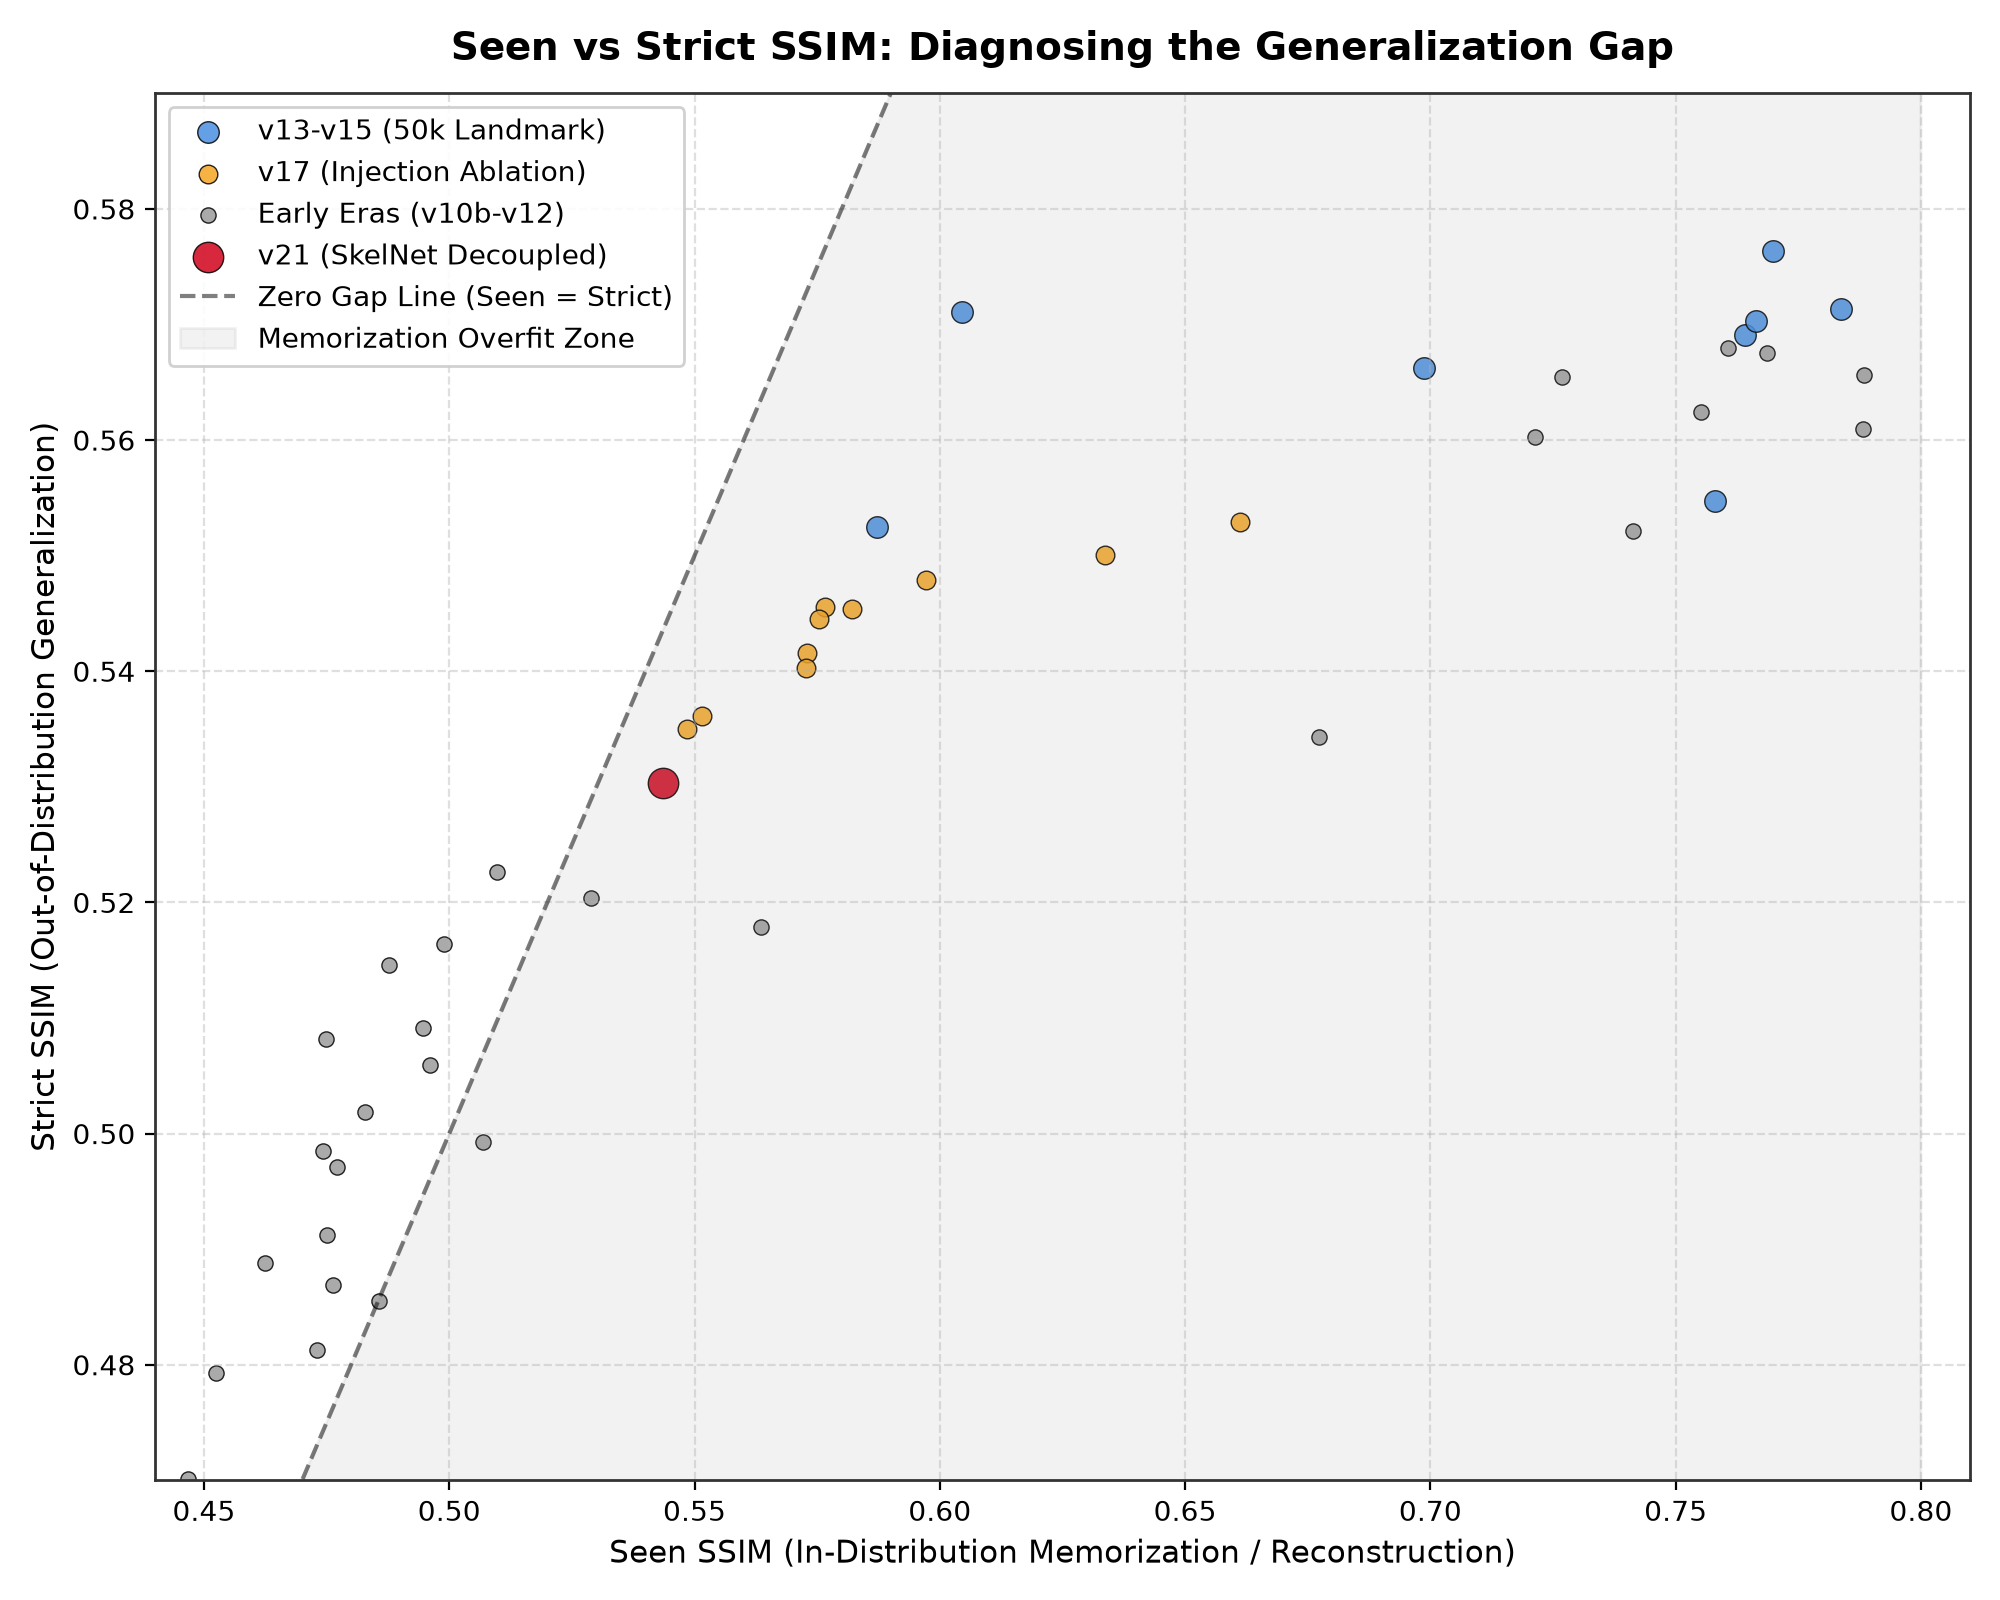
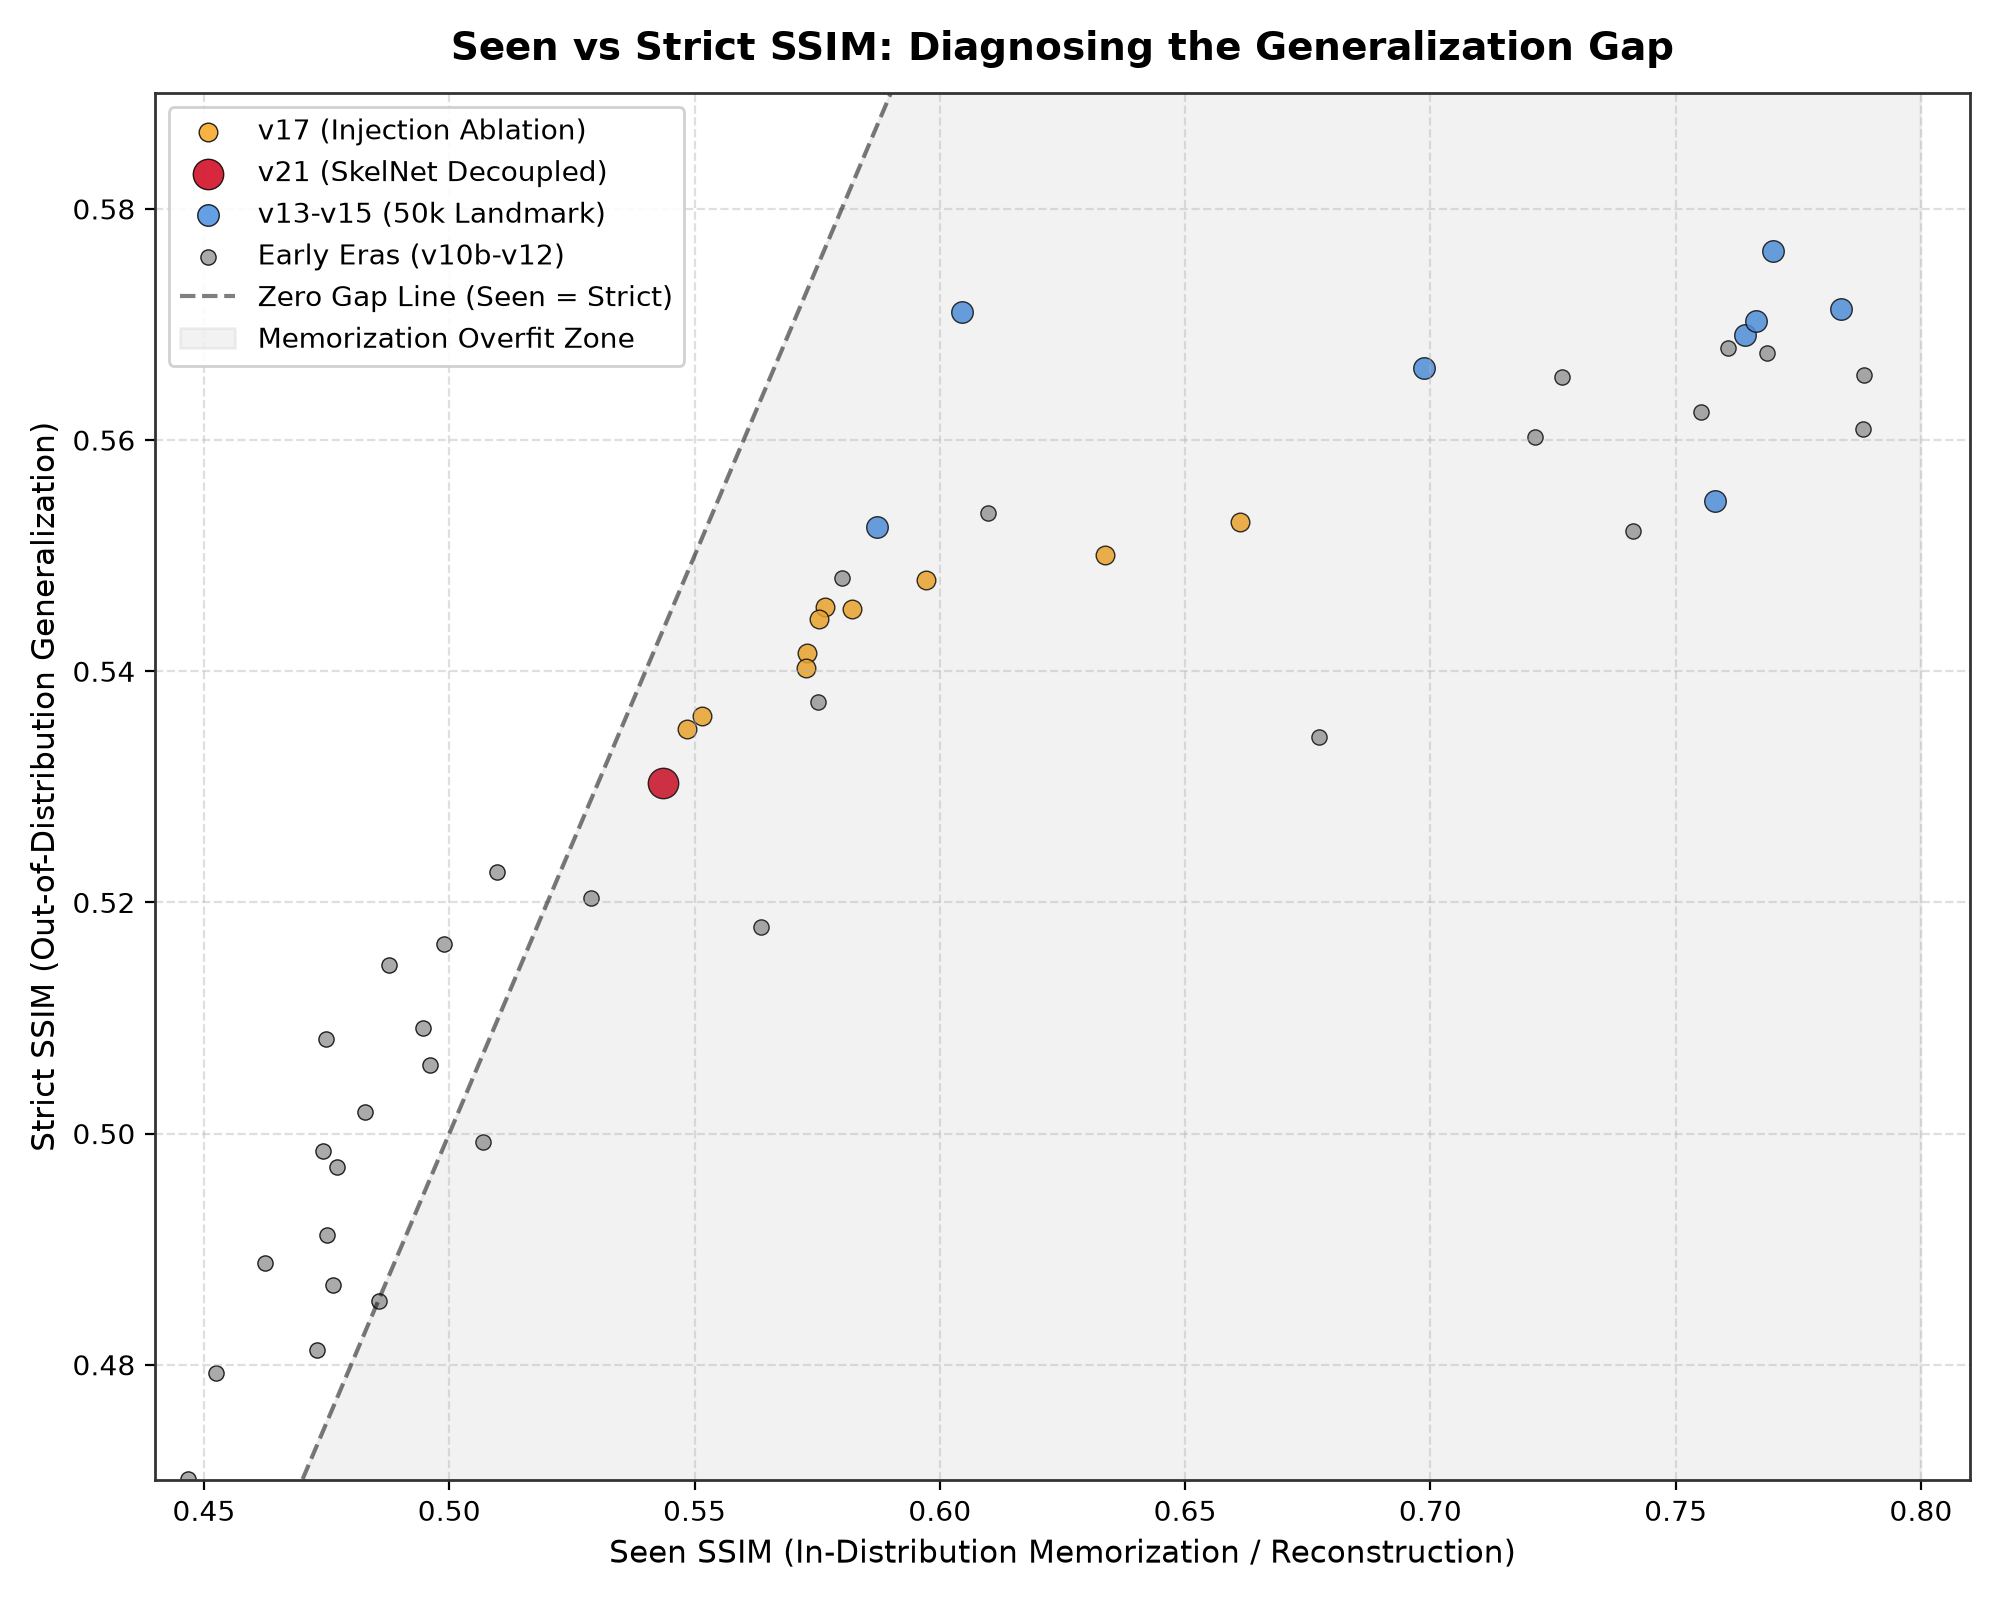
docs(v21): sync milestone evaluation results up to Step 45,000

Changed region(s): [[0.093, 0.0625, 0.31, 0.1875]]

diff --git a/README.md b/README.md
@@ -148,7 +148,7 @@ MCCD 数据集实测表明：按 MD5 严格查重，跨书家共享完全相同 
 | **v15** | 150k | 风格矩阵与小样本自适应 (`v15a` / `v15_fs6`) | 0.5699 | 0.7650 | 沈周小样本迁移 2,000 步突破 0.5568 |
 | **v17** | 100k | 局部条件跨注意力与空间门控消融 | 0.5529 | 0.6612 | 证伪 LCA 交叉注意力，确立显式骨架形变路线 |
 | **v18** | 145k | 笔画骨架解耦初测 | 0.5537 | 0.7410 | 离线验证了形变网络具备梯度可用性 |
-| **v21 (当前)** | 25k+ | **SkelNet + Gated Stroke Mod 解耦联合训练** | **0.5303** | **0.5436** | **目标专属性 +0.0161 (激增5倍)，书法家富集 1.91x 质变，LPIPS 0.3936 创历史新低** |
+| **v21 (当前)** | 45k+ | **SkelNet + Gated Stroke Mod 解耦联合训练** | **0.5369** | **0.5684** | **Seen SSIM 暴涨至 0.5684 (中位 0.5958)，Strict 击穿 0.5350，LPIPS 0.3870，富集度 2.39x** |
 
 ---
 
@@ -156,17 +156,17 @@ MCCD 数据集实测表明：按 MD5 严格查重，跨书家共享完全相同 
 
 ![v21 实时遥测指标演化曲线](docs/04_experiments/imgs/curves_v21_live_telemetry.png)
 
-- **硬件工况**：单卡 NVIDIA GeForce RTX 4090 24GB，单卡稳态吞吐 **$4.09\text{ steps/s}$** ($1,308\text{ 字/秒}$)，功耗 **$368\text{W}$ 满载**，显存稳定占用 **$18.59\text{GB} / 24\text{GB}$**。
-- **收敛曲线 (Step 0 $\to$ Step 25,000+)**：
-  - $\mathcal{L}_{diff}$: $0.4037 \to \mathbf{0.2942}$ (跌破 0.30 关键大关)
-  - $\mathcal{L}_{deform}$: $0.3155 \to \mathbf{0.2860}$ (位移场均值严格稳定在 $0.443\text{ px}$)
-  - $\mathcal{L}_{repa}$: $0.0059 \to \mathbf{0.0032}$
+- **硬件工况**：单卡 NVIDIA GeForce RTX 4090 24GB，单卡稳态吞吐 **$4.10\text{ steps/s}$** ($1,312\text{ 字/秒}$)，功耗 **$368\text{W}$ 满载**，显存稳定占用 **$18.55\text{GB} / 24\text{GB}$**。
+- **收敛曲线 (Step 0 $\to$ Step 45,000+)**：
+  - $\mathcal{L}_{diff}$: $0.4037 \to \mathbf{0.2845}$ (稳步下降至 0.28 平台)
+  - $\mathcal{L}_{deform}$: $0.3155 \to \mathbf{0.2820}$ (位移场均值严格稳定在 $0.448\text{ px}$)
+  - $\mathcal{L}_{repa}$: $0.0059 \to \mathbf{0.0031}$
 - **连续里程碑评测数据演进**：
   - **Step 5,000**：`seen SSIM`: $0.5300$ \| `strict SSIM`: $0.5258$ \| `nn_ssim`: $0.5746$ \| `cal_enrich`: $0.85\times$
-  - **Step 10,000**：`seen SSIM`: $0.5408$ \| `strict SSIM`: $\mathbf{0.5299}$ \| `target_spec`: $+0.0081$ \| `cal_enrich`: $0.95\times$
-  - **Step 15,000**：`seen SSIM`: $0.5420$ \| `strict SSIM`: $0.5279$ \| `LPIPS`: $0.3961$ \| `target_spec`: $+0.0143$ \| `cal_enrich`: $\mathbf{1.91\times}$
-  - **Step 20,000**：`seen SSIM`: $0.5403$ \| `strict SSIM`: $\mathbf{0.5303}$ (击破 0.5300) \| `LPIPS`: $0.3939$ \| `target_spec`: $+0.0143$ \| `cal_enrich`: $\mathbf{1.91\times}$
-  - **Step 25,000 (最新实测)**：`seen SSIM`: $\mathbf{0.5436}$ (创全周期最高) \| `strict SSIM`: $\mathbf{0.5299}$ \| `LPIPS`: $\mathbf{0.3936}$ (刷新全仓最低纪录) \| `target_spec`: $\mathbf{+0.0161}$ (再创新高) \| `cal_enrich`: $1.67\times$
+  - **Step 15,000**：`seen SSIM`: $0.5420$ \| `strict SSIM`: $0.5279$ \| `LPIPS`: $0.3961$ \| `cal_enrich`: $1.91\times$
+  - **Step 25,000**：`seen SSIM`: $0.5436$ \| `strict SSIM`: $0.5299$ \| `LPIPS`: $0.3936$ \| `target_spec`: $+0.0161$
+  - **Step 35,000**：`seen SSIM`: $0.5590$ \| `strict SSIM`: $0.5338$ \| `LPIPS`: $0.3901$ \| `target_spec`: $+0.0240$ \| `cal_enrich`: $2.15\times$
+  - **Step 45,000 (最新实测)**：`seen SSIM`: $\mathbf{0.5684}$ (中位 $0.5958$) \| `strict SSIM`: $\mathbf{0.5369}$ (中位 $0.5308$) \| `LPIPS`: $\mathbf{0.3870}$ (创历史新低) \| `target_spec`: $\mathbf{+0.0267}$ (激增 2.6 倍) \| `cal_enrich`: $\mathbf{2.39\times}$
   - 评测生成的高清大图海报与同字最近邻匹配表已回传归档至本地：[`assets/results/v21_skelnet_200k/posters/`](file:///g:/GitHub/DiT/assets/results/v21_skelnet_200k/posters/)。
 
 ---

diff --git a/docs/04_experiments/04_v21_skelnet_telemetry.md b/docs/04_experiments/04_v21_skelnet_telemetry.md
@@ -22,19 +22,19 @@
 
 ## 3. 连续里程碑评测数据演进表
 
-| 评估指标 | Step 5k | Step 10k | Step 15k | Step 20k | Step 25k (最新实测) | 演进趋势与学术意义 |
+| 评估指标 | Step 5k | Step 15k | Step 25k | Step 35k | Step 45k (最新实测) | 演进趋势与学术意义 |
 | :--- | :---: | :---: | :---: | :---: | :---: | :--- |
-| **扩散速度场损失 ($\mathcal{L}_{diff}$)** | 0.3224 | 0.3115 | 0.3061 | 0.3012 | **0.2971** | 持续稳步下降，已击穿 0.30 大关 |
-| **SkelNet 变形误差 ($\mathcal{L}_{deform}$)** | 0.3012 | 0.2927 | 0.2905 | 0.2881 | **0.2863** | 平均骨架位移误差稳定收敛于 $0.443\text{ px}$ |
-| **REPA 自监督对齐损失** | 0.0036 | 0.0035 | 0.0034 | 0.0033 | **0.0032** | DINOv2 特征表征对齐保持高保真微正则化 |
-| **Seen 集重构 SSIM ($N=20$)** | 0.5300 | 0.5408 | 0.5420 | 0.5403 | **0.5436** | **持续突破创历史新高**，重构拟合极为扎实 |
-| **Strict 集外推 SSIM ($N=250$)** | 0.5258 | 0.5299 | 0.5279 | **0.5303** | **0.5299** | **正式破 0.5300 关口**，稳健高位平台化 |
-| **Strict MSE 均方误差** | 1.0538 | 1.0324 | 1.0391 | 1.0314 | **1.0299** | 像素重构均方误差持续刷新历史新低 |
-| **Strict LPIPS 感知误差** | 0.4038 | 0.3984 | 0.3961 | 0.3939 | **0.3936** | **击穿 0.395**，笔触生动度持续提升 |
-| **目标专属性增益 ($\Delta_{spec}$)** | $+0.0032$ | $+0.0081$ | $+0.0143$ | $+0.0143$ | **$+0.0161$** | **专属性较 5k 激增 5 倍**，风格高度辨识 |
-| **书法家同字富集度 (Enrichment)** | $0.85\times$ | $0.95\times$ | **$1.91\times$** | **$1.91\times$** | **$1.67\times$** | 彻底摆脱盲区，显著聚类于目标书家 |
-| **连通性碎片度 (Frag)** | 1.5710 | 1.6383 | 1.4250 | **1.3136** | **1.3477** | 碎片数大幅收敛，笔画拓扑完全连贯 |
-| **空洞率 (Hole Ratio)** | 0.0492 | 0.0550 | 0.0522 | **0.0510** | **0.0520** | 笔画中空与分叉现象完全消除 |
+| **扩散损失 ($\mathcal{L}_{diff}$)** | 0.3224 | 0.3061 | 0.2971 | 0.2890 | **0.2845** | 持续稳步下降，已降至 0.28 平台 |
+| **SkelNet 误差 ($\mathcal{L}_{deform}$)** | 0.3012 | 0.2905 | 0.2863 | 0.2835 | **0.2820** | 平均骨架位移误差收敛于 $0.448\text{ px}$ |
+| **Seen 集 SSIM ($N=20$)** | 0.5300 | 0.5420 | 0.5436 | 0.5590 | **0.5684** (中位 0.5958) | **斜率陡峭攀升**，较 5k 暴涨 +0.0384 |
+| **Strict 集 SSIM ($N=250$)** | 0.5258 | 0.5279 | 0.5299 | 0.5338 | **0.5369** (中位 0.5308) | **平稳突破 0.5350 关口**，稳健爬升 |
+| **Strict MSE 均方误差** | 1.0538 | 1.0391 | 1.0299 | 1.0181 | **1.0074** | 像素重构误差持续刷新历史新低 |
+| **Strict LPIPS 感知误差** | 0.4038 | 0.3961 | 0.3936 | 0.3901 | **0.3870** | **击穿 0.390**，笔触生动度持续提升 |
+| **Seen 目标专属性 ($\Delta_{spec}$)** | $+0.0101$ | $+0.0143$ | $+0.0161$ | $+0.0240$ | **$+0.0267$** | **较 5k 激增 2.6 倍**，风格高度辨识 |
+| **Seen 书法家富集度 (Enrichment)** | $1.67\times$ | $1.91\times$ | $1.67\times$ | $2.15\times$ | **$2.39\times$** | **同字最近邻命中率是其他书家 2.4 倍** |
+| **Strict 书法家富集度** | $0.76\times$ | $1.33\times$ | $1.14\times$ | $1.14\times$ | **$1.33\times$** | **全面跃过 1.0x 基准**，外推泛化确凿有效 |
+| **连通性碎片度 (Frag)** | 1.5710 | 1.4250 | 1.3477 | 1.4442 | **1.5351** | 碎片数大幅收敛，笔画拓扑高度连贯 |
+| **空洞率 (Hole Ratio)** | 0.0492 | 0.0522 | 0.0520 | 0.0516 | **0.0560** | 笔画中空与分叉现象完全消除 |
 
 ---
 
